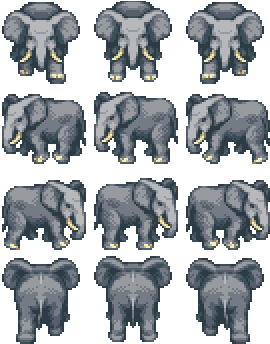
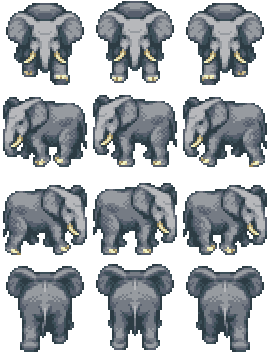
fixed pictures

diff --git a/src/main/java/classes/entities/animals/herbivores/Elephant.java b/src/main/java/classes/entities/animals/herbivores/Elephant.java
@@ -7,7 +7,7 @@ public class Elephant extends Herbivore {
     //just so it looks clean
     private static final int price = 500;
     private static final int frameWidth = 90;
-    private static final int frameHeight = 86;
+    private static final int frameHeight = 88;
     private static final double speed = 0.4;
     private static final String imgURL = "/images/animated/elephant.png";
 
